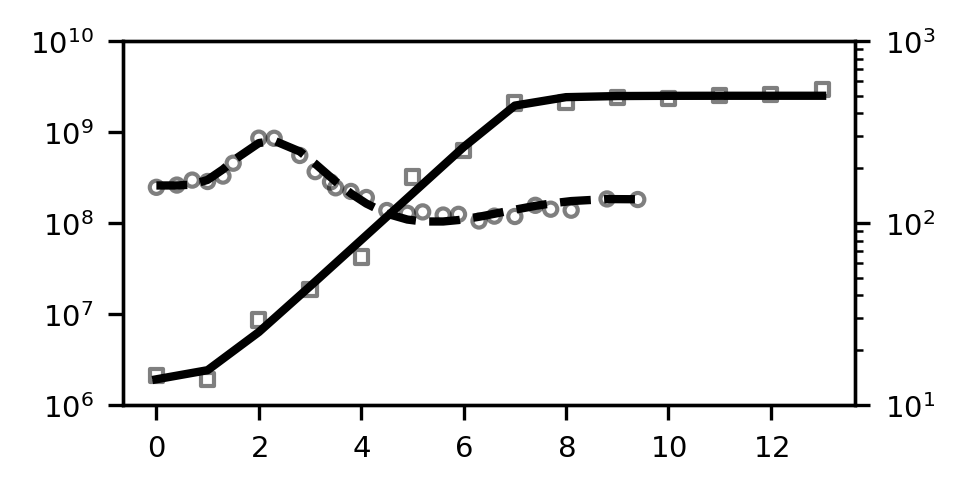
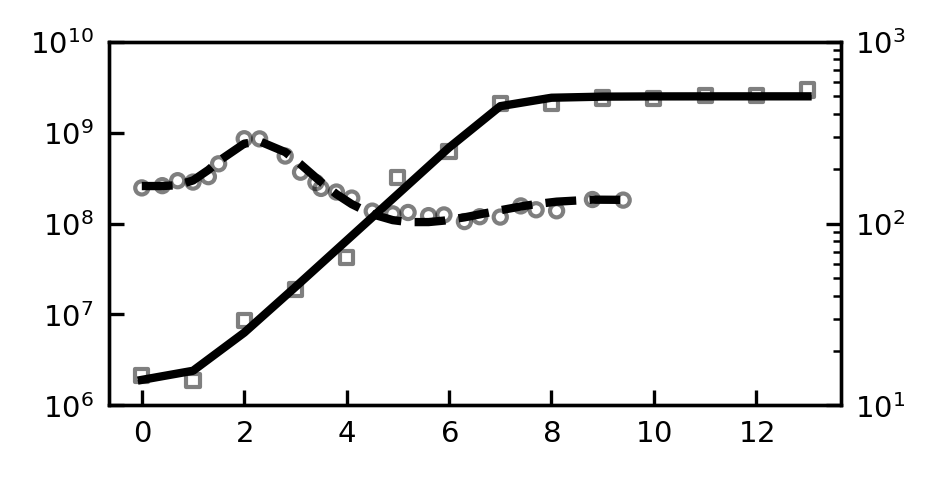
Changes ax tics

Changed region(s): [[0.031, 0.0586, 0.9915, 0.9372]]

diff --git a/Simulations/Fig2_Fitting/Script.py b/Simulations/Fig2_Fitting/Script.py
@@ -147,7 +147,7 @@ fig, ax1 = plt.subplots(figsize=(width, height))
 
 s = 10
 # LEFT AXIS: Closed system
-ax1.semilogy(Fitted_Mono_Closed.t, Fitted_Mono_Closed.y[0], linewidth=2,color='k',zorder=5)
+ax1.semilogy(Fitted_Mono_Closed.t, Fitted_Mono_Closed.y[0], linewidth=2,color='k')
 ax1.scatter(np.arange(len(S_Mono)),S_Mono, marker='s', s=s, color='none',edgecolors='k', zorder=10,alpha = 0.5)
 
 ax1.set_yticks([1e6, 1e7, 1e8, 1e9, 1e10])
@@ -158,6 +158,8 @@ ax1.set_ylim(1e6, 1e10)
 ax1.set_xticks([0, 2, 4, 6, 8, 10, 12, 14])
 ax1.set_xticklabels([r'$0$', r'$2$', r'$4$', r'$6$', r'$8$', r'$10$', r'$12$', r'$14$'])
 
+ax1.tick_params(which='both',direction='in')
+
 
 plt.xticks(fontsize=7, fontname='Arial')
 plt.yticks(fontsize=7, fontname='Arial')
@@ -166,16 +168,18 @@ plt.yticks(fontsize=7, fontname='Arial')
 # RIGHT AXIS: Open system
 ax2 = ax1.twinx()
 
-ax2.semilogy(Fitted_Mono.t,Fitted_Mono.y[0], linewidth=2,linestyle='dashed',color='k',zorder=10)
-ax2.scatter(S_Mono_Open_Time,S_Mono_Open, marker='o', s=s, color='none',edgecolors='k', zorder=2,alpha=0.5)
+ax2.semilogy(Fitted_Mono.t,Fitted_Mono.y[0], linewidth=2,linestyle='dashed',color='k')
+ax2.scatter(S_Mono_Open_Time,S_Mono_Open, marker='o', s=s, color='none',edgecolors='k', zorder=10,alpha=0.5)
 
-ax2.semilogy(Fitted_Co.t,Fitted_Co.y[0], linewidth=2,linestyle='dashed',color='gray',zorder=10)
-ax2.scatter(S_Co_Open_Time,S_Co_Open, marker='o', s=s, color='none',edgecolors='gray', zorder=2,alpha=0.5)
+ax2.semilogy(Fitted_Co.t,Fitted_Co.y[0], linewidth=2,linestyle='dashed',color='gray')
+ax2.scatter(S_Co_Open_Time,S_Co_Open, marker='o', s=s, color='none',edgecolors='gray', zorder=10,alpha=0.5)
 
 
 ax2.set_yticks([1e0, 1e1, 1e2, 1e3])
 ax2.set_yticklabels([r'$10^0$',r'$10^1$', r'$10^2$', r'$10^3$'])
 ax2.set_ylim(1, 1e3)
+
+ax2.tick_params(which= 'both',direction='in')
 
 plt.xticks(fontsize=7, fontname='Arial')
 plt.yticks(fontsize=7, fontname='Arial')
@@ -325,6 +329,7 @@ ax1.set_ylim(1e6, 1e10)
 ax1.set_xticks([0, 2, 4, 6, 8, 10, 12, 14])
 ax1.set_xticklabels([r'$0$', r'$2$', r'$4$', r'$6$', r'$8$', r'$10$', r'$12$', r'$14$'])
 
+ax1.tick_params(which='both',direction='in')
 
 plt.xticks(fontsize=7, fontname='Arial')
 plt.yticks(fontsize=7, fontname='Arial')
@@ -338,6 +343,9 @@ ax2.scatter(P_Open_Time, P_Open, marker='o', s=s, color='none',edgecolors='k', z
 ax2.set_yticks([1e1, 1e2, 1e3])
 ax2.set_yticklabels([r'$10^1$', r'$10^2$', r'$10^3$'])
 ax2.set_ylim(10, 1e3)
+
+ax2.tick_params(which='both',direction='in')
+
 
 plt.xticks(fontsize=7, fontname='Arial')
 plt.yticks(fontsize=7, fontname='Arial')

diff --git a/Simulations/Fig3_Comparisons/Script.py b/Simulations/Fig3_Comparisons/Script.py
@@ -173,6 +173,8 @@ for i in DATA:
     ax1.set_xticks([0, 2, 4, 6, 8, 10, 12, 14])
     ax1.set_xticklabels([r'$0$', r'$2$', r'$4$', r'$6$', r'$8$', r'$10$', r'$12$', r'$14$'])
 
+    ax1.tick_params(which='both',direction='in')
+
 
     plt.xticks(fontsize=7, fontname='Arial')
     plt.yticks(fontsize=7, fontname='Arial')
